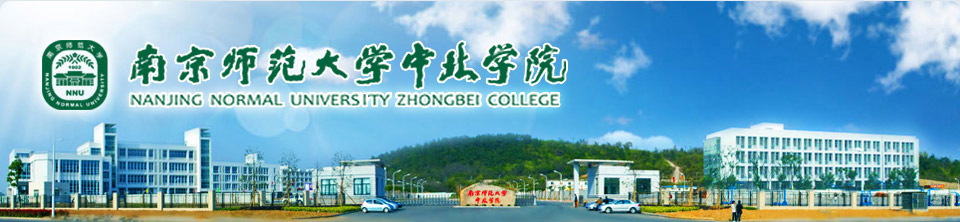
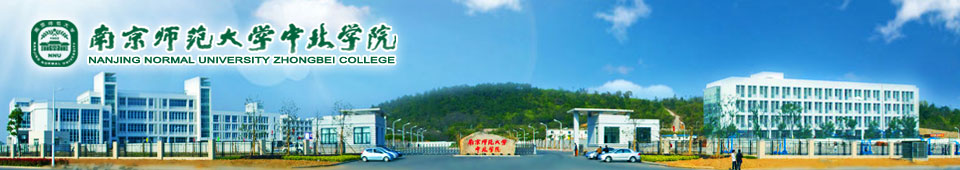
hutai

diff --git a/server/source/platinum-cms-website/WebContent/static/common/css/index.css b/server/source/platinum-cms-website/WebContent/static/common/css/index.css
@@ -9,26 +9,26 @@ body{
 	background-image:url(../newimages/jianbian.gif);
 	background-repeat:repeat-x;
 }
-#header{height:283px;}
+#header{height:210px;}
 #tips{position:absolute;top:0;left:0;width:960px;height:35px;}
 #topLink{width:345px;height:30px;float:right;}
 #topLink span{display:block;height:100%;line-height:30px;float:left;}
 #topLink .fenge{width:8px;text-align:center;color:#003c28;font-weight: normal;}
 #topLink span a{font-family:"微软雅黑";color:#003c28;font-weight:bold;}
 #topLink span a:hover{color:#545454;}
-#banner{position:relative;width:960px;height:222px;}
-#banner img{width: 960px;height: 222px;}
-#homemenu{width:100%;height:47px;}
+#banner{position:relative;width:960px;height:170px;}
+#banner img{width: 960px;height: 170px;}
+#homemenu{width:100%;height:34px;}
 #menuUp{width:100%;overflow:hidden;height:4px;background-color:#4C7070;}
-#homemenu ul{height:43px;}
-#homemenu ul li{z-index:1000;float:left;height:43px;}
+#homemenu ul{height:30px;}
+#homemenu ul li{z-index:1000;float:left;height:30px;}
 #menuLeft{background-image:url(../newimages/menuleft.jpg);}
 #homemenu ul li a{
 	display:block;
 	width:100%;height:100%;
 	font-size:14px;
 	font-family:"微软雅黑";
-	line-height:43px;
+	line-height:30px;
 	text-align:center;
 	color:#FFF;
 	cursor:pointer;
@@ -60,7 +60,7 @@ body{
 #homemenu ul#up li{height:4px;width:101px;}
 #headerEnd{
 	width:100%;
-	height:14px; 
+	height:7px; 
 	background-color:#FFF;
 	/*background-image:url(../newimages/menudown.jpg);*/
 	background-repeat:repeat-x;
@@ -107,7 +107,7 @@ body{
 #homemenu ul li.li101 ul,#homemenu ul li#xxgk ul{
 	z-index:10;
 	position:absolute;
-	top:43px;
+	top:30px;
 }
 #homemenu ul li#xxgk ul{
 	left:-50px;
